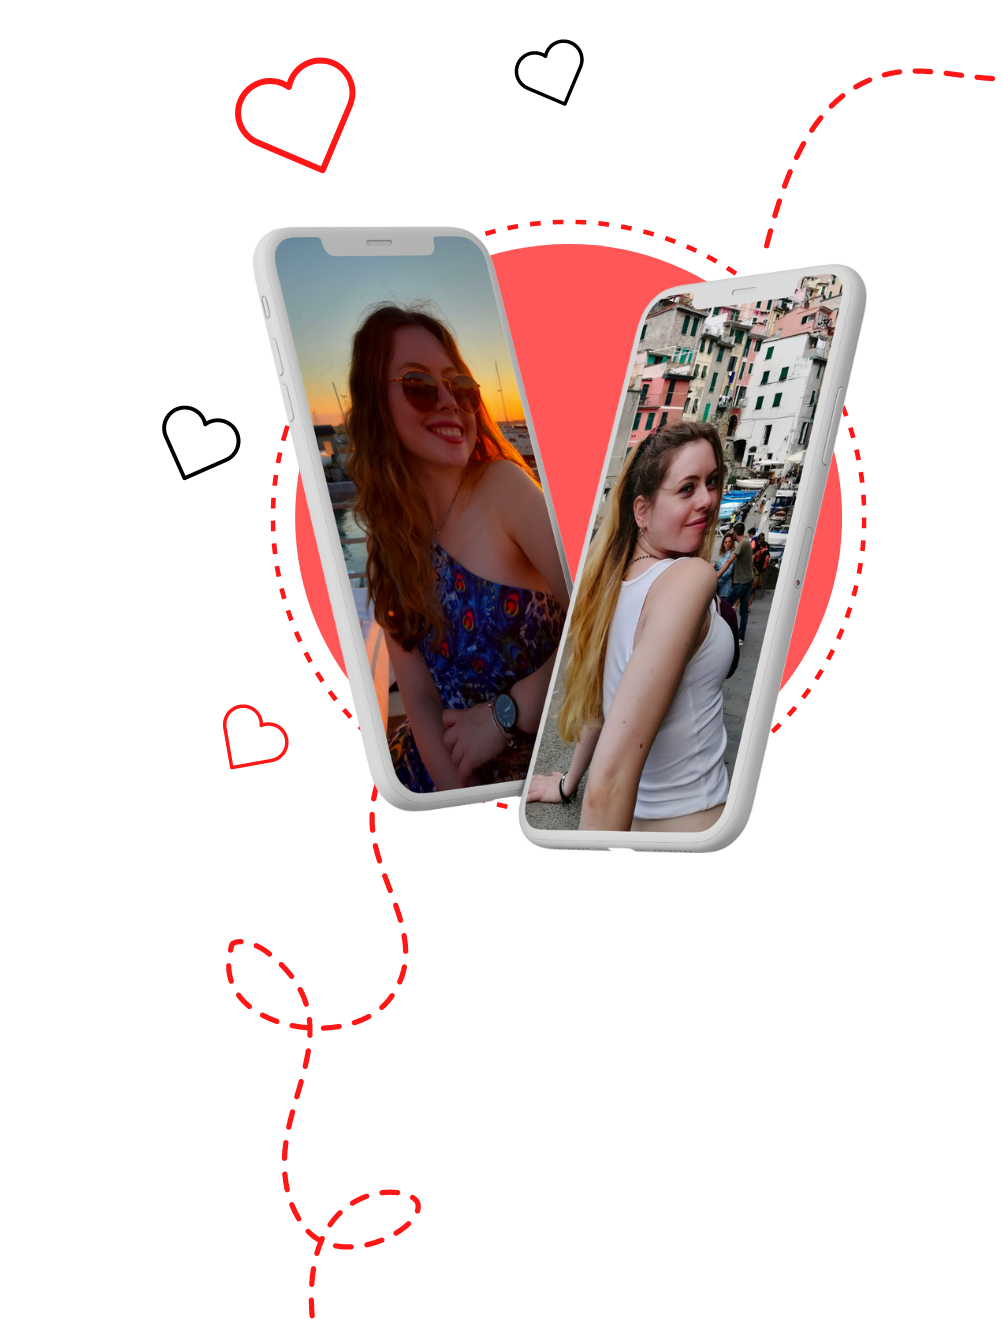
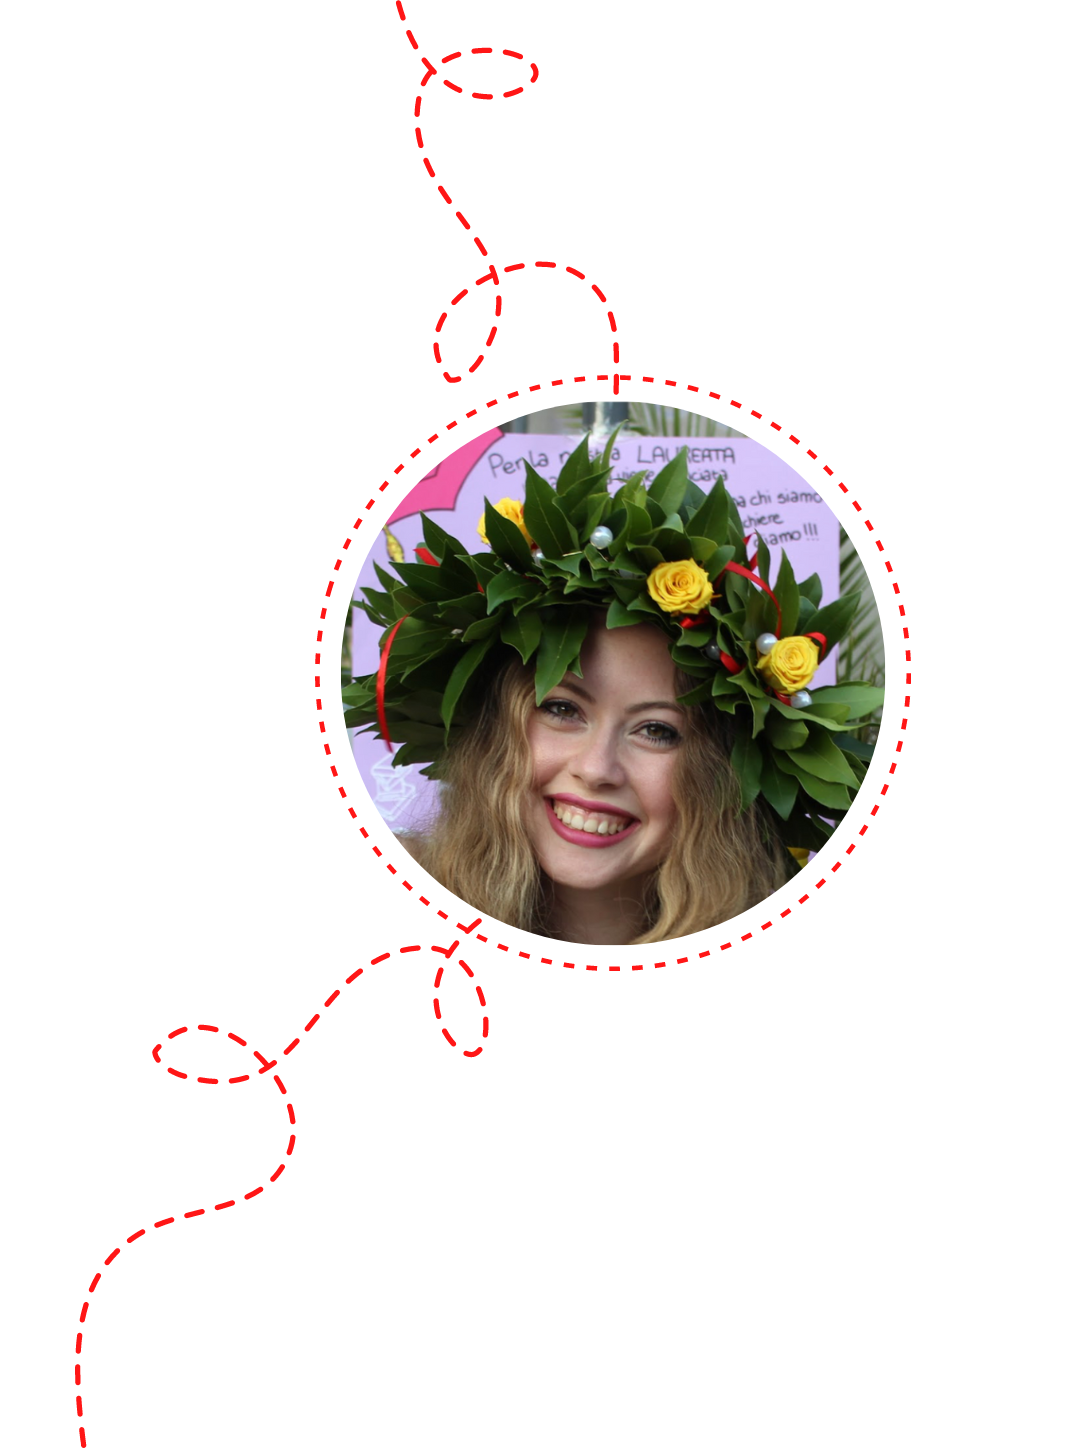
update 4

diff --git a/aboutme/src/Home/Home.tsx b/aboutme/src/Home/Home.tsx
@@ -72,22 +72,24 @@ class Home extends React.Component<HomeProps, HomeState> {
                 </div>
                 <div className={"block-4"}>
                     <div className={"container-1"}>
-                        <p className={"text-align-center"}>
-                            Mi sono laureata in Economia e gestione delle imprese in pieno Covid-19 sviluppando la tesi
-                            sulle strategie per l'acquisizione e il mantenimento del potere di mercato.
-                        </p>
-                        <p className={"text-align-center"}>
-                            Ho maturato una spiccata propensione per l'<span
-                            className={"bold"}>imprenditorialità</span> ed un conseguente avvicinamento
-                            allo studio del <span className={"bold"}>Digital Marketing</span>.
-                        </p>
-                        <p className={"text-align-center"}>
-                            Conseguita la Laurea vedevo aprirsi <br/>davanti a me un'idea: <br/>diventare imprenditrice.<br/>
-                            Sì, ma di che cosa?
-                        </p>
-                        <p className={"text-align-center red"}>
-                            Imprenditrice della mia passione!
-                        </p>
+                        <div>
+                            <p className={"text-align-center"}>
+                                Mi sono laureata in Economia e gestione delle imprese in pieno Covid-19 sviluppando la tesi
+                                sulle strategie per l'acquisizione e il mantenimento del potere di mercato.
+                            </p>
+                            <p className={"text-align-center"}>
+                                Ho maturato una spiccata propensione per l'<span
+                                className={"bold"}>imprenditorialità</span> ed un conseguente avvicinamento
+                                allo studio del <span className={"bold"}>Digital Marketing</span>.
+                            </p>
+                            <p className={"text-align-center"}>
+                                Conseguita la Laurea vedevo aprirsi <br/>davanti a me un'idea: <br/>diventare imprenditrice.<br/>
+                                Sì, ma di che cosa?
+                            </p>
+                            <p className={"text-align-center red"}>
+                                Imprenditrice della mia passione!
+                            </p>
+                        </div>
                     </div>
                     <div className={"container-2"}>
                         <p className={"text-align-center"}>

diff --git a/aboutme/src/Home/Home.css b/aboutme/src/Home/Home.css
@@ -203,7 +203,7 @@
 
     .block-3 .box-container .text-box:last-child {
         margin-left: unset;
-        margin-bottom: 10rem;
+        margin-bottom: 7.3rem;
         margin-top: 7.2rem;
     }
 
@@ -252,6 +252,35 @@
         width: 100%;
         height: calc(50% + 2rem);
 
+    }
+
+    .block-4 {
+        background-image: unset;
+        display: flex;
+        flex-direction: column;
+        height: 55rem;
+    }
+
+    .block-4 .container-1,
+    .block-4 .container-2{
+        width: 100%;
+        margin-left: unset;
+    }
+
+    .block-4 .container-1{
+        background-image: url("../Assets/images/7.webp");
+        background-position: -3.7rem -8.3rem;
+        background-repeat: no-repeat;
+        background-size: 31.3rem;
+        width: 100%;
+        padding-top: 29.3rem;
+        margin-top: unset;
+        display: flex;
+        justify-content: center;
+    }
+
+    .block-4 .container-1>div{
+        width: 90%;
     }
 
 
